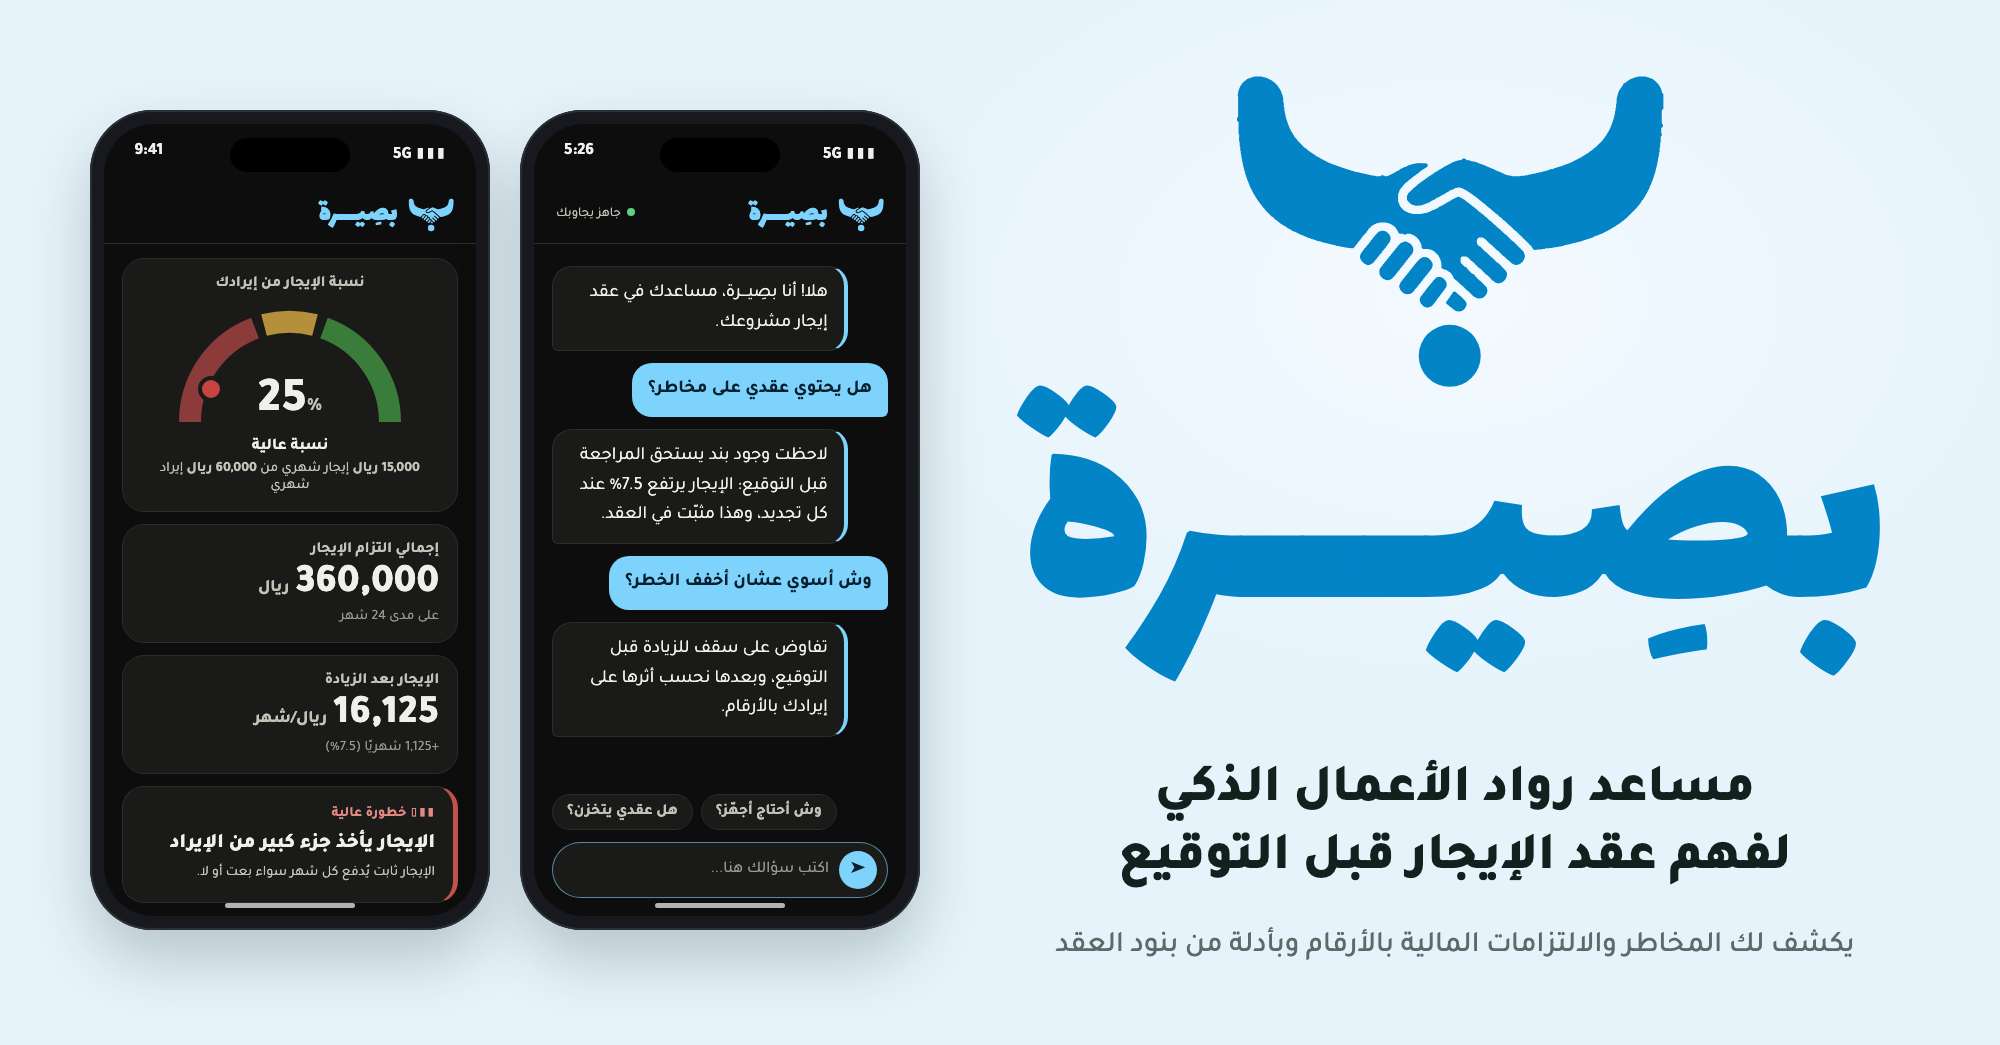
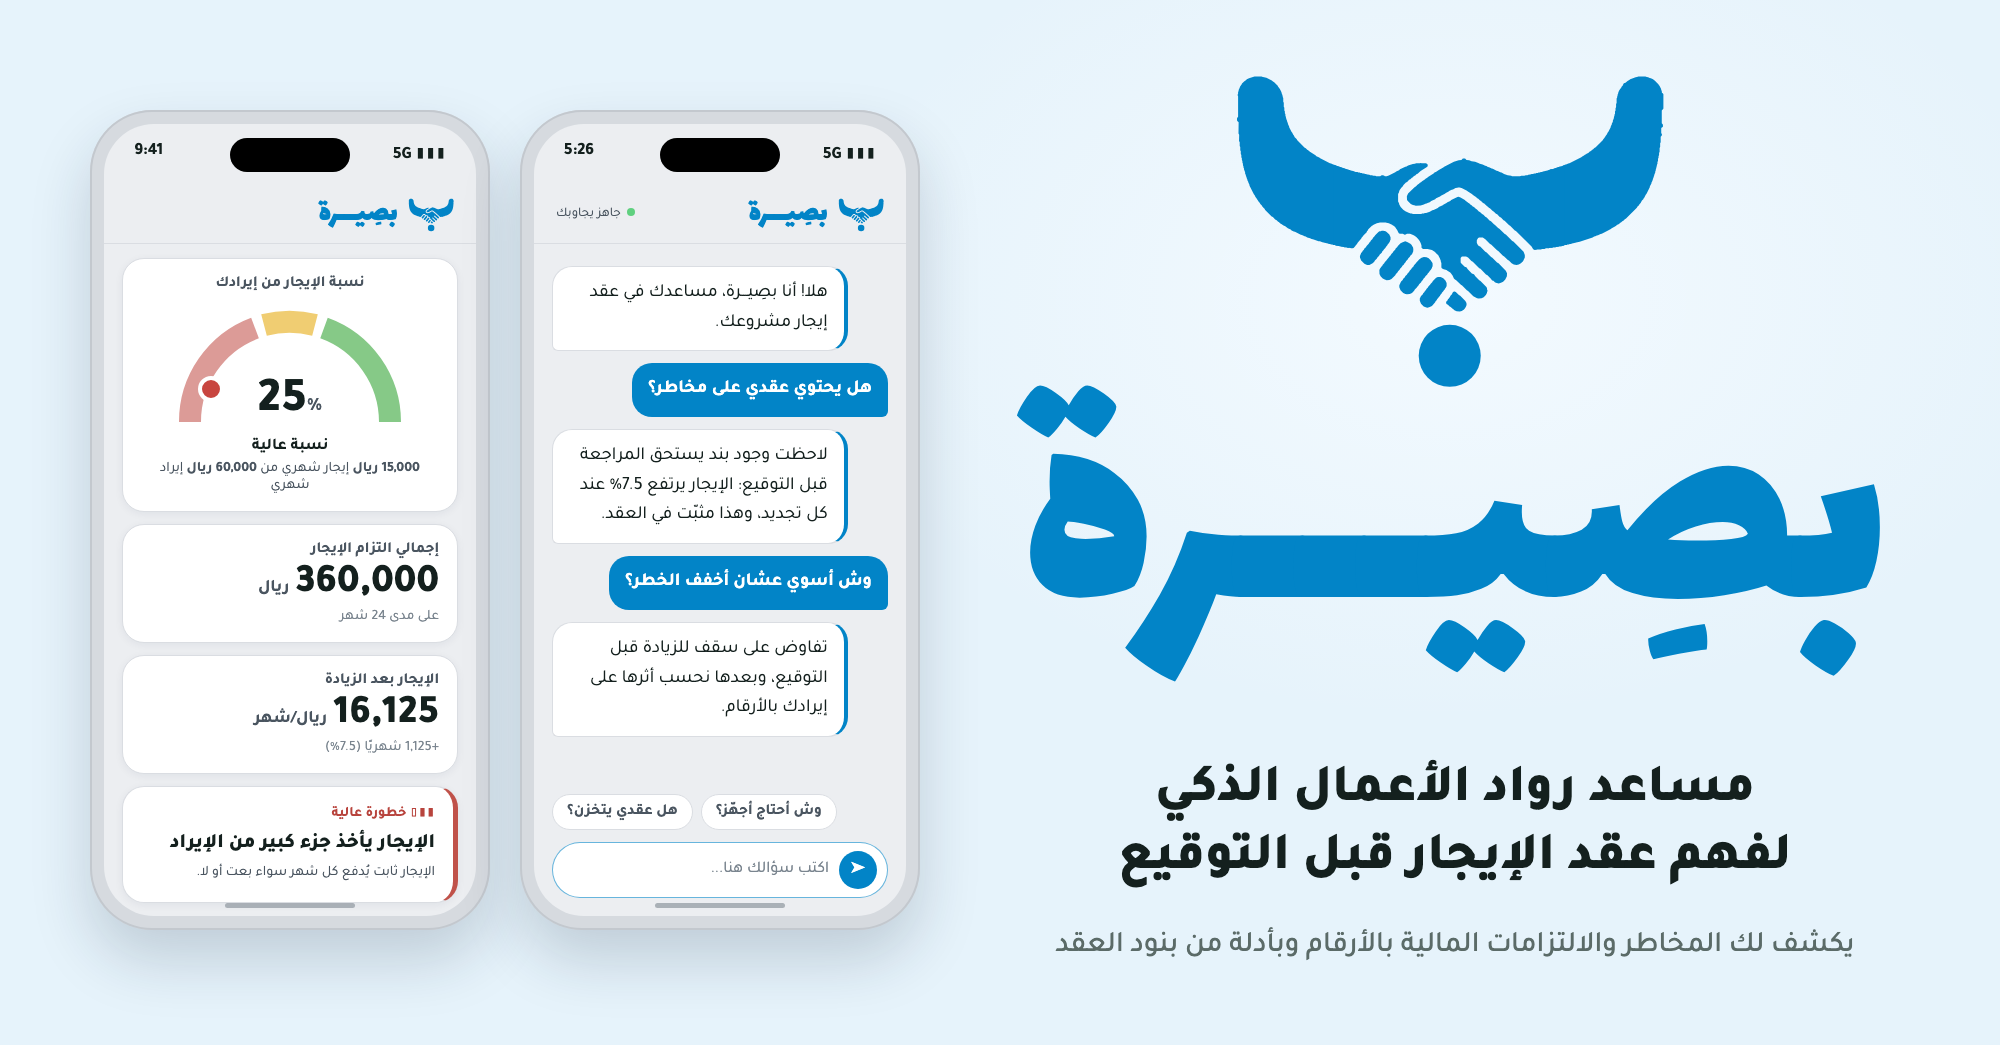
البوستر: شاشات الجوال رمادية فاتحة بدل الغامقة

diff --git a/docs/poster/basira-poster.html b/docs/poster/basira-poster.html
@@ -3,7 +3,7 @@
 <title>بوستر بصِيـــرة</title>
 <link href="https://fonts.googleapis.com/css2?family=Tajawal:wght@400;500;700;800&family=Lalezar&display=swap" rel="stylesheet">
 <style>
-:root { --teal:#0284c7; --ink:#14201e; --mint:#e6f3fb; --glow:#f3faff; --bg:#0d0d0d; --surface:#1a1a19; --surface2:#222221; --line:#2c2c2a; --ink-d:#f0efec; --ink2:#c3c2b7; --ink3:#9a9890; --brand:#7dd3fc; --onbrand:#06202f; }
+:root { --teal:#0284c7; --ink:#14201e; --mint:#e6f3fb; --glow:#f3faff; --bg:#eceef1; --surface:#ffffff; --surface2:#f4f5f7; --line:#dadde2; --ink-d:#14201e; --ink2:#4a5560; --ink3:#7a858f; --brand:#0284c7; --onbrand:#ffffff; }
 * { box-sizing: border-box; margin:0; padding:0; }
 html, body { width: 2000px; height: 1045px; background: var(--mint); font-family: "Tajawal", sans-serif; overflow: hidden; }
 .poster { position: relative; width: 2000px; height: 1045px; background: radial-gradient(900px 600px at 1450px 300px, var(--glow), transparent 70%), var(--mint); }
@@ -16,14 +16,14 @@ html, body { width: 2000px; height: 1045px; background: var(--mint); font-family
 .sub { position:absolute; right: 70px; left: 980px; top: 925px; text-align:center; white-space: nowrap; font-weight: 500; font-size: 29px; color: #5b6b68; line-height: 1.5; }
 
 /* ---- الجوالات ---- */
-.phone { position:absolute; width: 400px; height: 820px; border-radius: 62px; background: #17191e; padding: 14px; box-shadow: 0 30px 60px rgba(20,40,38,.22), 0 0 0 2px #2b2f36 inset; }
+.phone { position:absolute; width: 400px; height: 820px; border-radius: 62px; background: #d6dadf; padding: 14px; box-shadow: 0 30px 60px rgba(20,40,60,.18), 0 0 0 2px #c3c8ce inset; }
 .phone .scr { position:relative; width:100%; height:100%; border-radius: 50px; overflow:hidden; background: var(--bg); color: var(--ink-d); direction: rtl; }
 .island { position:absolute; top: 14px; left: 50%; transform: translateX(-50%); width: 120px; height: 34px; border-radius: 20px; background:#000; z-index: 5; }
 .status { position:absolute; top: 18px; left: 30px; right: 30px; display:flex; justify-content: space-between; font-size: 17px; font-weight: 700; direction: ltr; z-index: 4; }
 .bar { position:absolute; top: 62px; left:0; right:0; height: 58px; display:flex; align-items:center; gap: 10px; padding: 0 22px; border-bottom: 1px solid var(--line); }
 .bar .nm { font-family: "Lalezar", sans-serif; font-size: 30px; color: var(--brand); line-height: 1; }
 .body { position:absolute; top: 134px; left: 18px; right: 18px; bottom: 18px; display:flex; flex-direction: column; gap: 12px; }
-.card { background: var(--surface); border: 1px solid var(--line); border-radius: 22px; padding: 16px 18px; }
+.card { background: var(--surface); border: 1px solid var(--line); border-radius: 22px; padding: 16px 18px; box-shadow: 0 2px 8px rgba(20,40,60,.06); }
 .card h4 { font-size: 15px; font-weight: 700; color: var(--ink2); text-align:center; margin-bottom: 4px; }
 .big { font-size: 40px; font-weight: 800; line-height: 1.1; }
 .big small { font-size: 17px; font-weight: 600; color: var(--ink2); margin-inline-start: 6px; }
@@ -35,7 +35,7 @@ html, body { width: 2000px; height: 1045px; background: var(--mint); font-family
 .sev { text-align:center; font-size: 16px; font-weight: 700; margin: 6px 0 4px; color: var(--ink-d); }
 .sub2 { text-align:center; font-size: 14px; color: var(--ink2); }
 .risk { border-inline-start: 5px solid #c0524a; }
-.risk .chip { display:inline-flex; gap:8px; align-items:center; font-size: 14px; font-weight: 700; color:#e08a82; }
+.risk .chip { display:inline-flex; gap:8px; align-items:center; font-size: 14px; font-weight: 700; color:#b8443d; }
 .risk h5 { font-size: 20px; font-weight: 800; margin: 6px 0 4px; line-height: 1.4; }
 .risk p { font-size: 14px; color: var(--ink2); line-height: 1.7; }
 
@@ -51,7 +51,7 @@ html, body { width: 2000px; height: 1045px; background: var(--mint); font-family
 .comp .snd { width: 38px; height: 38px; border-radius: 50%; background: var(--brand); display:grid; place-items:center; color: var(--onbrand); }
 .dot { width:8px; height:8px; border-radius:50%; background:#5fd07f; display:inline-block; margin-inline-end:6px; }
 .hsub { font-size: 13px; color: var(--ink2); }
-.home { position:absolute; bottom: 8px; left: 50%; transform: translateX(-50%); width: 130px; height: 5px; border-radius: 3px; background: #ddd; opacity:.8; }
+.home { position:absolute; bottom: 8px; left: 50%; transform: translateX(-50%); width: 130px; height: 5px; border-radius: 3px; background: #9aa1a9; opacity:.8; }
 </style></head><body>
 <div class="poster">
 
@@ -86,10 +86,10 @@ html, body { width: 2000px; height: 1045px; background: var(--mint); font-family
         <div class="card">
           <h4>نسبة الإيجار من إيرادك</h4>
           <svg class="gauge" viewBox="0 0 250 135">
-            <path d="M25 125 A100 100 0 0 1 90 31" fill="none" stroke="#8c3b3b" stroke-width="22"/>
-            <path d="M99 28 A100 100 0 0 1 150 28" fill="none" stroke="#b4903a" stroke-width="22"/>
-            <path d="M159 31 A100 100 0 0 1 225 125" fill="none" stroke="#3a7d3a" stroke-width="22"/>
-            <circle cx="46" cy="92" r="11" fill="#c8453f" stroke="#1a1a19" stroke-width="4"/>
+            <path d="M25 125 A100 100 0 0 1 90 31" fill="none" stroke="#dc9b97" stroke-width="22"/>
+            <path d="M99 28 A100 100 0 0 1 150 28" fill="none" stroke="#f0cd72" stroke-width="22"/>
+            <path d="M159 31 A100 100 0 0 1 225 125" fill="none" stroke="#86c987" stroke-width="22"/>
+            <circle cx="46" cy="92" r="11" fill="#c8453f" stroke="#ffffff" stroke-width="4"/>
           </svg>
           <div class="pct">25<small>%</small></div>
           <div class="sev">نسبة عالية</div>

diff --git a/docs/poster/build.py b/docs/poster/build.py
@@ -10,7 +10,7 @@ html = """<!doctype html>
 <title>بوستر بصِيـــرة</title>
 <link href="https://fonts.googleapis.com/css2?family=Tajawal:wght@400;500;700;800&family=Lalezar&display=swap" rel="stylesheet">
 <style>
-:root { --teal:#1f6f66; --ink:#14201e; --mint:#e7f3f0; --glow:#f2faf8; --bg:#0d0d0d; --surface:#1a1a19; --surface2:#222221; --line:#2c2c2a; --ink-d:#f0efec; --ink2:#c3c2b7; --ink3:#9a9890; --brand:#3fc1b3; --onbrand:#06201d; }
+:root { --teal:#1f6f66; --ink:#14201e; --mint:#e7f3f0; --glow:#f2faf8; --bg:#eceef1; --surface:#ffffff; --surface2:#f4f5f7; --line:#dadde2; --ink-d:#14201e; --ink2:#4a5560; --ink3:#7a858f; --brand:#3fc1b3; --onbrand:#06201d; }
 * { box-sizing: border-box; margin:0; padding:0; }
 html, body { width: 2000px; height: 1045px; background: var(--mint); font-family: "Tajawal", sans-serif; overflow: hidden; }
 .poster { position: relative; width: 2000px; height: 1045px; background: radial-gradient(900px 600px at 1450px 300px, var(--glow), transparent 70%), var(--mint); }
@@ -23,14 +23,14 @@ html, body { width: 2000px; height: 1045px; background: var(--mint); font-family
 .sub { position:absolute; right: 70px; left: 980px; top: 925px; text-align:center; white-space: nowrap; font-weight: 500; font-size: 29px; color: #5b6b68; line-height: 1.5; }
 
 /* ---- الجوالات ---- */
-.phone { position:absolute; width: 400px; height: 820px; border-radius: 62px; background: #17191e; padding: 14px; box-shadow: 0 30px 60px rgba(20,40,38,.22), 0 0 0 2px #2b2f36 inset; }
+.phone { position:absolute; width: 400px; height: 820px; border-radius: 62px; background: #d6dadf; padding: 14px; box-shadow: 0 30px 60px rgba(20,40,60,.18), 0 0 0 2px #c3c8ce inset; }
 .phone .scr { position:relative; width:100%; height:100%; border-radius: 50px; overflow:hidden; background: var(--bg); color: var(--ink-d); direction: rtl; }
 .island { position:absolute; top: 14px; left: 50%; transform: translateX(-50%); width: 120px; height: 34px; border-radius: 20px; background:#000; z-index: 5; }
 .status { position:absolute; top: 18px; left: 30px; right: 30px; display:flex; justify-content: space-between; font-size: 17px; font-weight: 700; direction: ltr; z-index: 4; }
 .bar { position:absolute; top: 62px; left:0; right:0; height: 58px; display:flex; align-items:center; gap: 10px; padding: 0 22px; border-bottom: 1px solid var(--line); }
 .bar .nm { font-family: "Lalezar", sans-serif; font-size: 30px; color: var(--brand); line-height: 1; }
 .body { position:absolute; top: 134px; left: 18px; right: 18px; bottom: 18px; display:flex; flex-direction: column; gap: 12px; }
-.card { background: var(--surface); border: 1px solid var(--line); border-radius: 22px; padding: 16px 18px; }
+.card { background: var(--surface); border: 1px solid var(--line); border-radius: 22px; padding: 16px 18px; box-shadow: 0 2px 8px rgba(20,40,60,.06); }
 .card h4 { font-size: 15px; font-weight: 700; color: var(--ink2); text-align:center; margin-bottom: 4px; }
 .big { font-size: 40px; font-weight: 800; line-height: 1.1; }
 .big small { font-size: 17px; font-weight: 600; color: var(--ink2); margin-inline-start: 6px; }
@@ -42,7 +42,7 @@ html, body { width: 2000px; height: 1045px; background: var(--mint); font-family
 .sev { text-align:center; font-size: 16px; font-weight: 700; margin: 6px 0 4px; color: var(--ink-d); }
 .sub2 { text-align:center; font-size: 14px; color: var(--ink2); }
 .risk { border-inline-start: 5px solid #c0524a; }
-.risk .chip { display:inline-flex; gap:8px; align-items:center; font-size: 14px; font-weight: 700; color:#e08a82; }
+.risk .chip { display:inline-flex; gap:8px; align-items:center; font-size: 14px; font-weight: 700; color:#b8443d; }
 .risk h5 { font-size: 20px; font-weight: 800; margin: 6px 0 4px; line-height: 1.4; }
 .risk p { font-size: 14px; color: var(--ink2); line-height: 1.7; }
 
@@ -58,7 +58,7 @@ html, body { width: 2000px; height: 1045px; background: var(--mint); font-family
 .comp .snd { width: 38px; height: 38px; border-radius: 50%; background: var(--brand); display:grid; place-items:center; color: var(--onbrand); }
 .dot { width:8px; height:8px; border-radius:50%; background:#5fd07f; display:inline-block; margin-inline-end:6px; }
 .hsub { font-size: 13px; color: var(--ink2); }
-.home { position:absolute; bottom: 8px; left: 50%; transform: translateX(-50%); width: 130px; height: 5px; border-radius: 3px; background: #ddd; opacity:.8; }
+.home { position:absolute; bottom: 8px; left: 50%; transform: translateX(-50%); width: 130px; height: 5px; border-radius: 3px; background: #9aa1a9; opacity:.8; }
 </style></head><body>
 <div class="poster">
 
@@ -77,10 +77,10 @@ html, body { width: 2000px; height: 1045px; background: var(--mint); font-family
         <div class="card">
           <h4>نسبة الإيجار من إيرادك</h4>
           <svg class="gauge" viewBox="0 0 250 135">
-            <path d="M25 125 A100 100 0 0 1 90 31" fill="none" stroke="#8c3b3b" stroke-width="22"/>
-            <path d="M99 28 A100 100 0 0 1 150 28" fill="none" stroke="#b4903a" stroke-width="22"/>
-            <path d="M159 31 A100 100 0 0 1 225 125" fill="none" stroke="#3a7d3a" stroke-width="22"/>
-            <circle cx="46" cy="92" r="11" fill="#c8453f" stroke="#1a1a19" stroke-width="4"/>
+            <path d="M25 125 A100 100 0 0 1 90 31" fill="none" stroke="#dc9b97" stroke-width="22"/>
+            <path d="M99 28 A100 100 0 0 1 150 28" fill="none" stroke="#f0cd72" stroke-width="22"/>
+            <path d="M159 31 A100 100 0 0 1 225 125" fill="none" stroke="#86c987" stroke-width="22"/>
+            <circle cx="46" cy="92" r="11" fill="#c8453f" stroke="#ffffff" stroke-width="4"/>
           </svg>
           <div class="pct">25<small>%</small></div>
           <div class="sev">نسبة عالية</div>
@@ -120,7 +120,7 @@ html, body { width: 2000px; height: 1045px; background: var(--mint); font-family
 html = html.replace("__LOGO__", logo).replace("__LOGO_S__", logo_small)
 PALETTES = {
     # السماوي المعتمد: نفس ألوان الموقع (فاتح: #0284c7 / غامق: #7dd3fc)
-    "": dict(teal="#0284c7", mint="#e6f3fb", glow="#f3faff", brand="#7dd3fc", onbrand="#06202f"),
+    "": dict(teal="#0284c7", mint="#e6f3fb", glow="#f3faff", brand="#0284c7", onbrand="#ffffff"),
 }
 for name, c in PALETTES.items():
     h = html
